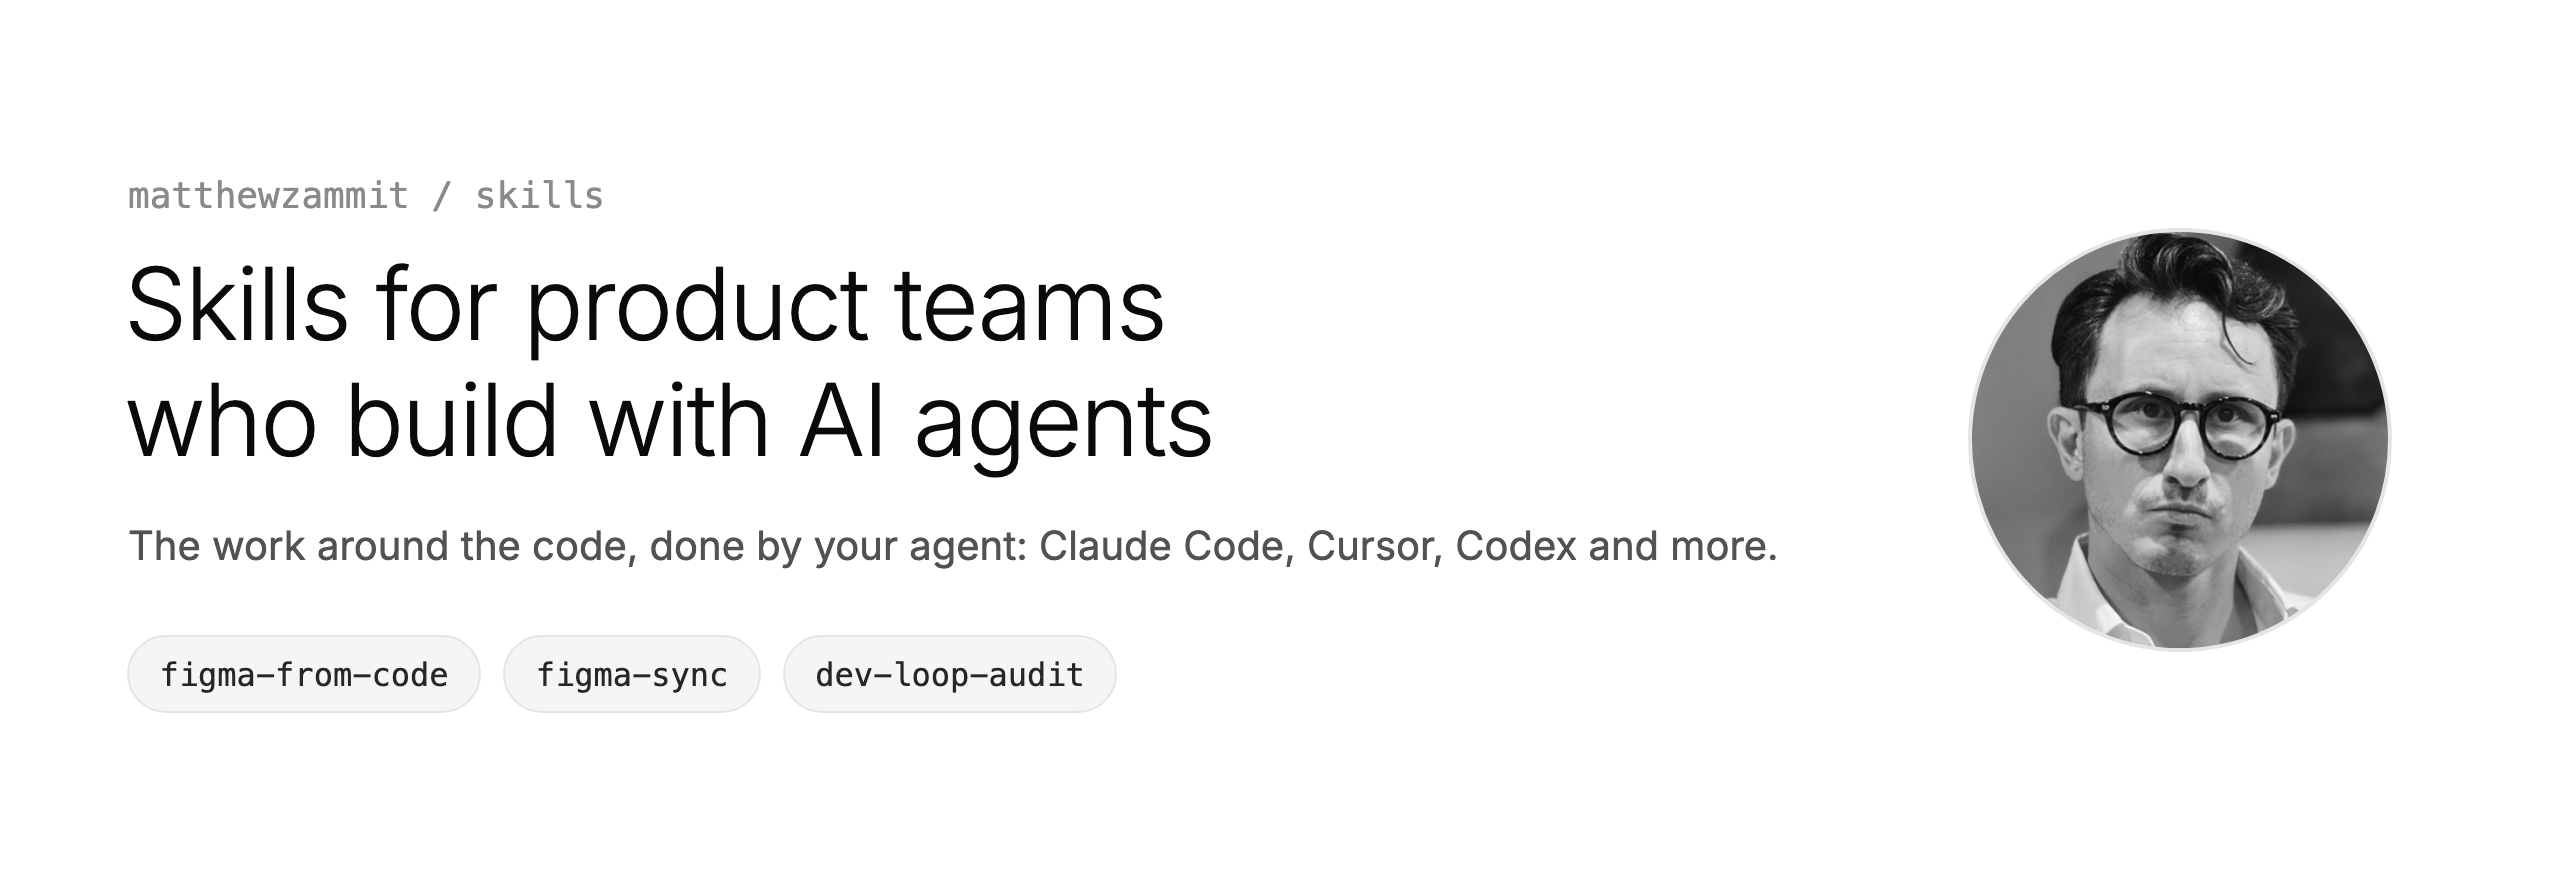
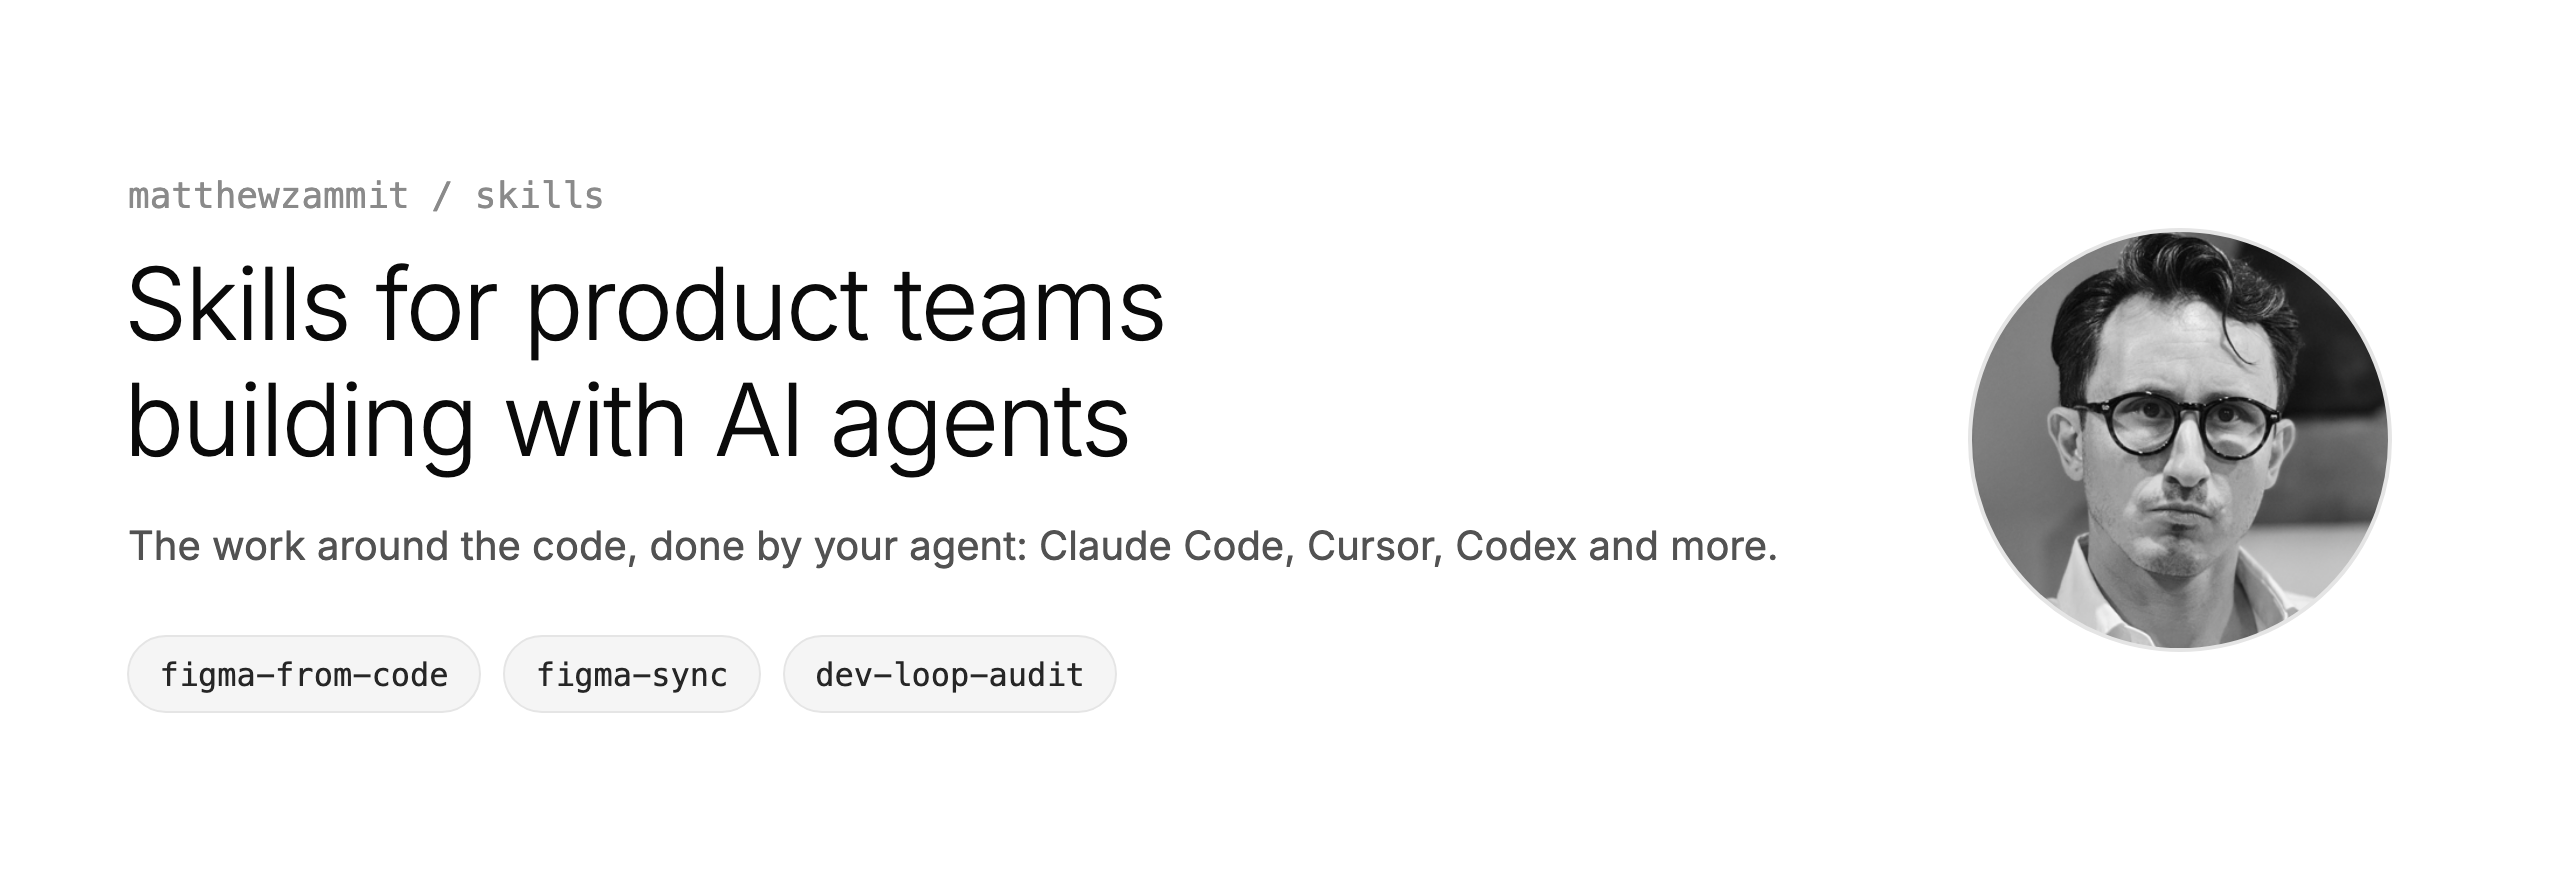
Home page: casual copy, npx install first, dev-loop-audit names its three areas
Title is "building with AI agents" (banner too). The intro no longer says
"my". Install shows npx first and the plugin second, with no folded
sections. More space between the two skills. The Binderr dev-loop quote is
gone; the problem and fix name CI, local checks and agent time. The skill
page lists the three areas at the top.

Changed region(s): [[0.0312, 0.4295, 0.4688, 0.5523]]

diff --git a/README.md b/README.md
@@ -1,19 +1,19 @@
 <picture>
   <source media="(prefers-color-scheme: dark)" srcset="assets/banner-dark.png">
-  <img src="assets/banner-light.png" alt="matthewzammit/skills: skills for product teams who build with AI agents. figma-from-code, figma-sync, dev-loop-audit." width="100%">
+  <img src="assets/banner-light.png" alt="matthewzammit/skills: skills for product teams building with AI agents. figma-from-code, figma-sync, dev-loop-audit." width="100%">
 </picture>
 
-# Skills for product teams who build with AI agents
+# Skills for product teams building with AI agents
 
 [![skills.sh](https://skills.sh/b/matthewzammit/skills)](https://skills.sh/matthewzammit/skills)
 
-My agent skills for the work around the code that nobody has time for: keeping the design in step with the
-product, and finding out where the week went. They come from shipping a real app with AI agents, with the mistakes already
-made for you.
+Agent skills for the jobs around the code that never make it to the top of the list: keeping Figma in line with
+what you actually shipped, and working out where the week went. Each one came out of shipping a real app with AI
+agents, so the mistakes are already made for you.
 
-Each skill is a folder: a `SKILL.md` the agent follows step by step, and a `README.md` for you. They ask before they
-act, check their own work, and say what they measured and what they guessed. They install into Claude Code, Cursor, Codex and
-[other agents](https://skills.sh).
+Each skill is a folder: a `SKILL.md` your agent follows step by step, and a `README.md` for you. They ask before they
+change anything, check their own work, and tell you what they measured and what they guessed. They work in Claude
+Code, Cursor, Codex and [other agents](https://skills.sh).
 
 ## Skills
 
@@ -28,37 +28,31 @@ act, check their own work, and say what they measured and what they guessed. The
 
 | Skill | What it does | When you run it |
 |---|---|---|
-| [dev-loop-audit](skills/dev-loop-audit/) | Audits CI, git hooks and AI agent time together: where the loop lost time, ranked by minutes, with a trend and the fixes to build. | Any time, or weekly |
+| [dev-loop-audit](skills/dev-loop-audit/) | Audits CI, your local checks and your agent's time together: where the week went, ranked by minutes, with a trend and the fixes to build. | Any time, or weekly |
 
-More skills are coming. Watch the repo to hear about them.
+More are on the way. Watch the repo to hear when they land.
 
 ## Install (30 seconds)
 
-<details>
-<summary><strong>Claude Code</strong>, as a plugin</summary>
+**Any agent** (Claude Code, Cursor, Codex and more):
+
+```bash
+npx skills add matthewzammit/skills
+```
+
+It asks which skills and which agents you want. Add `-g` to install them for every project. Run it again to update.
+
+**Or as a Claude Code plugin:**
 
 ```
 /plugin marketplace add matthewzammit/skills
 /plugin install matthewzammit-skills@matthewzammit
 ```
 
-To update: `/plugin marketplace update matthewzammit`.
+Update with `/plugin marketplace update matthewzammit`.
 
-</details>
-
-<details>
-<summary><strong>Any agent</strong> (Claude Code, Cursor, Codex and more), as editable files</summary>
-
-```bash
-npx skills add matthewzammit/skills
-```
-
-It asks which skills and agents to install. Add `-g` to install for every project. To update, run it again.
-
-</details>
-
-Pick one per agent: both together give you every skill twice. There is nothing else to set up: each skill asks what
-it needs the first time you run it.
+Pick one way per agent, or you get every skill twice. That's it: each skill asks for what it needs the first time you
+run it.
 
 ## Why these skills exist
 
@@ -69,12 +63,12 @@ it needs the first time you run it.
 </p>
 
 **The problem.** When AI builds the product with you, nobody draws every screen in Figma first. You grow the product
-in code, screen by screen. Within weeks Figma no longer shows what you shipped, and nobody has the time to redraw it.
+in code, screen by screen. A few weeks in, Figma no longer shows what you shipped, and nobody has time to redraw it.
 But Figma is still where your team reviews, keeps a reference, and makes marketing assets.
 
 **The fix.** [**figma-from-code**](skills/figma-from-code/) rebuilds your mobile or web app in Figma from its real code:
 every screen and state in light and dark, responsive views for the web, on a design system of real components and
-variables. [**figma-sync**](skills/figma-sync/) then keeps it updated after each change, with a weekly drift check
+variables. [**figma-sync**](skills/figma-sync/) then keeps it up to date after each change, with a weekly drift check
 that asks before it redraws anything.
 
 > On the [Binderr](https://binderr.com) Wallet app, Claude rebuilt about **716 screens**, **144 components** and a
@@ -82,23 +76,30 @@ that asks before it redraws anything.
 
 [Read more about Figma from code](skills/figma-from-code/)
 
+<br>
+
 ### #2: Nobody knows where the week went
 
 <p align="center">
   <img src="assets/dev-loop-audit.png" alt="Dev loop audit: GitHub Actions, git hooks and Claude Code transcripts on the left, Claude Code in the middle, and on the right minutes lost per area (agent time, gate, CI) and fixes ranked by minutes saved." width="100%">
 </p>
 
-**The problem.** Most CI audits read your workflow files and your last few runs. When agents write and test the
-code, most of the lost time is outside CI: waits, retries, refused commands, slow checks on a simulator or in a
-browser, a hook that runs the same tests twice. Nobody measures it.
+**The problem.** A slow week rarely has one cause. Some of it is CI: a flaky test, a slow job, code that landed on
+main without a passing run. Some of it is local: hooks that are not installed, or a check before each push that runs
+every test twice. And when agents write and test the code, some of it is the agent: waiting, retrying, or running
+the same simulator check again and again. Most audits look at one of these at most.
 
-**The fix.** [**dev-loop-audit**](skills/dev-loop-audit/) reads GitHub Actions, your git hooks and your agent's own
-transcripts (Claude Code only for now), ranks every problem by minutes lost, checks the top ones again, keeps a trend, and asks which fixes to
-build. Run it any time, or every Monday.
+**The fix.** [**dev-loop-audit**](skills/dev-loop-audit/) checks all three:
 
-> On the Binderr Wallet app, one week: CI cost 0 people-minutes and 60 runner-minutes. Claude's own checks on the
-> simulator cost 190 minutes. The biggest problem was not in CI at all: another agent session cleared a shared build
-> cache during a release, and the release took 44 minutes instead of 24. Nobody had measured any of it.
+- **CI:** your GitHub Actions runs. Failures, flaky tests, slow jobs, billed minutes, and code on main with no
+  passing run.
+- **Local checks:** your git hooks and the tests that run before a push. Installed? The same checks as CI? How long
+  does a push take?
+- **Agent time:** waits, retries, blocked commands, and checks in a simulator or browser, from your agent's own
+  transcripts (Claude Code only for now).
+
+It ranks every problem by minutes lost, double-checks the biggest ones, keeps a trend week to week, and asks which
+fixes to build. Run it any time, or every Monday.
 
 [Read more about the dev loop audit](skills/dev-loop-audit/)
 
@@ -108,4 +109,5 @@ Run reports and pull requests are welcome, above all from web apps. See [CONTRIB
 
 ## License
 
-[MIT](LICENSE). Made by [Matthew Zammit](https://github.com/matthewzammit). If a skill helps, tell me what worked.
+[MIT](LICENSE). Made by [Matthew Zammit](https://github.com/matthewzammit). If a skill helps, open an issue and say
+what worked.

diff --git a/skills/dev-loop-audit/README.md b/skills/dev-loop-audit/README.md
@@ -4,21 +4,22 @@
 
 # Dev loop audit
 
-**CI, git hooks and AI agent time, in one audit you run any time or weekly.** Claude measures where your development loop lost time
-last week, ranks every problem by minutes lost, proves the top ones, keeps a trend, and asks which fixes to build.
+**Your whole development loop, in one audit you run any time or every Monday.** Your agent measures where last
+week's time went, ranks every problem by minutes lost, double-checks the biggest ones, keeps a trend, and asks
+which fixes to build.
 
-Most CI audits read your workflow files or your last few runs. This one also looks at:
+It checks three areas:
 
-- **Holes on your main branch:** code that landed with no passing CI run, and for how long.
-- **Your local gate:** whether the hooks are installed, whether they run what CI runs, and how long a push takes,
-  week on week.
-- **Your agent's own time:** from its transcripts on your machine. Claude Code only for now: in another agent the
-  audit still covers CI and hooks, and says it skipped agent time. Sleeps and unbounded waits, retries of the same
-  failing command, hook refusals, commands typed by hand fifty times, and, for mobile and web apps, how long each
-  check on the simulator or in the browser takes.
+1. **CI (GitHub Actions).** Failed and flaky runs, slow jobs, billed minutes, and code that landed on main with no
+   passing run, and for how long.
+2. **Local checks (git hooks and the tests before a push).** Are the hooks installed? Do they run the same checks
+   as CI? How long does a push take, and how many pushes failed for no good reason?
+3. **Agent time.** Where your agent waited, retried or got blocked, commands it typed by hand fifty times, and how
+   long each check in a simulator or browser took. This part reads Claude Code transcripts on your machine, so it is
+   Claude Code only for now. In other agents the audit covers areas 1 and 2, and says it skipped agent time.
 
-On the app we built it for, the agent's checking loop cost more than CI and the gate together in every week we measured. Nobody
-had measured it.
+Most audits look at one of these. Time lost in one area often shows up in another, so this one ranks them all on
+one list.
 
 ## Run it
 
@@ -51,7 +52,7 @@ Fixes, ranked by minutes saved a week
 Which should I build? Numbers, 'all' or 'none'.
 ```
 
-## What it checks
+## Every check, in detail
 
 - **CI:** failures and their cause, flakes, cancelled runs, holes (from every real push, so a push no workflow ran
   on still counts), jobs with no timeout, failures that cannot block (`continue-on-error`, `|| true`, a summary job
